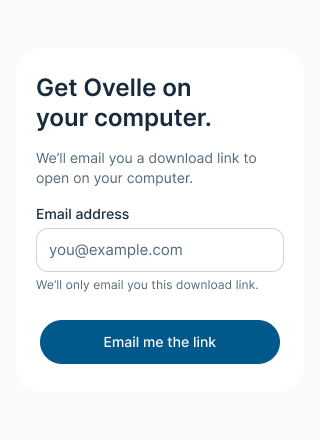
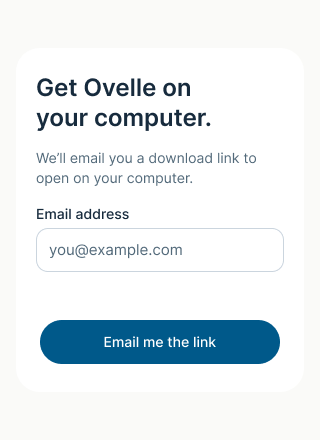
Match email download variants to helper-free Figma design

Changed region(s): [[0.125, 0.6205, 0.4375, 0.6795], [0.5625, 0.6205, 0.8125, 0.6795], [0.4688, 0.6205, 0.5312, 0.6795]]

diff --git a/docs/design-system/mobile-email-download-2026-10-10/README.md b/docs/design-system/mobile-email-download-2026-10-10/README.md
@@ -1,5 +1,7 @@
 # Mobile email download — Figma first
 
+Updated October 11, 2026 to match the user’s removal of the routine helper text beneath the email input. All seven states in both materials and their linked mobile Home/review instances now omit that hint. Validation and send-failure messages remain. Captures below reflect this revision.
+
 The mobile download section now asks for an email address instead of offering operating-system choices. It uses linked public Ovelle Field and Button instances inside a native Ovelle / Email download link component.
 
 - [Component family on 05 Components](https://www.figma.com/design/6jsC9SLa0LYsZKjJXxlY1K?node-id=246-8205)
